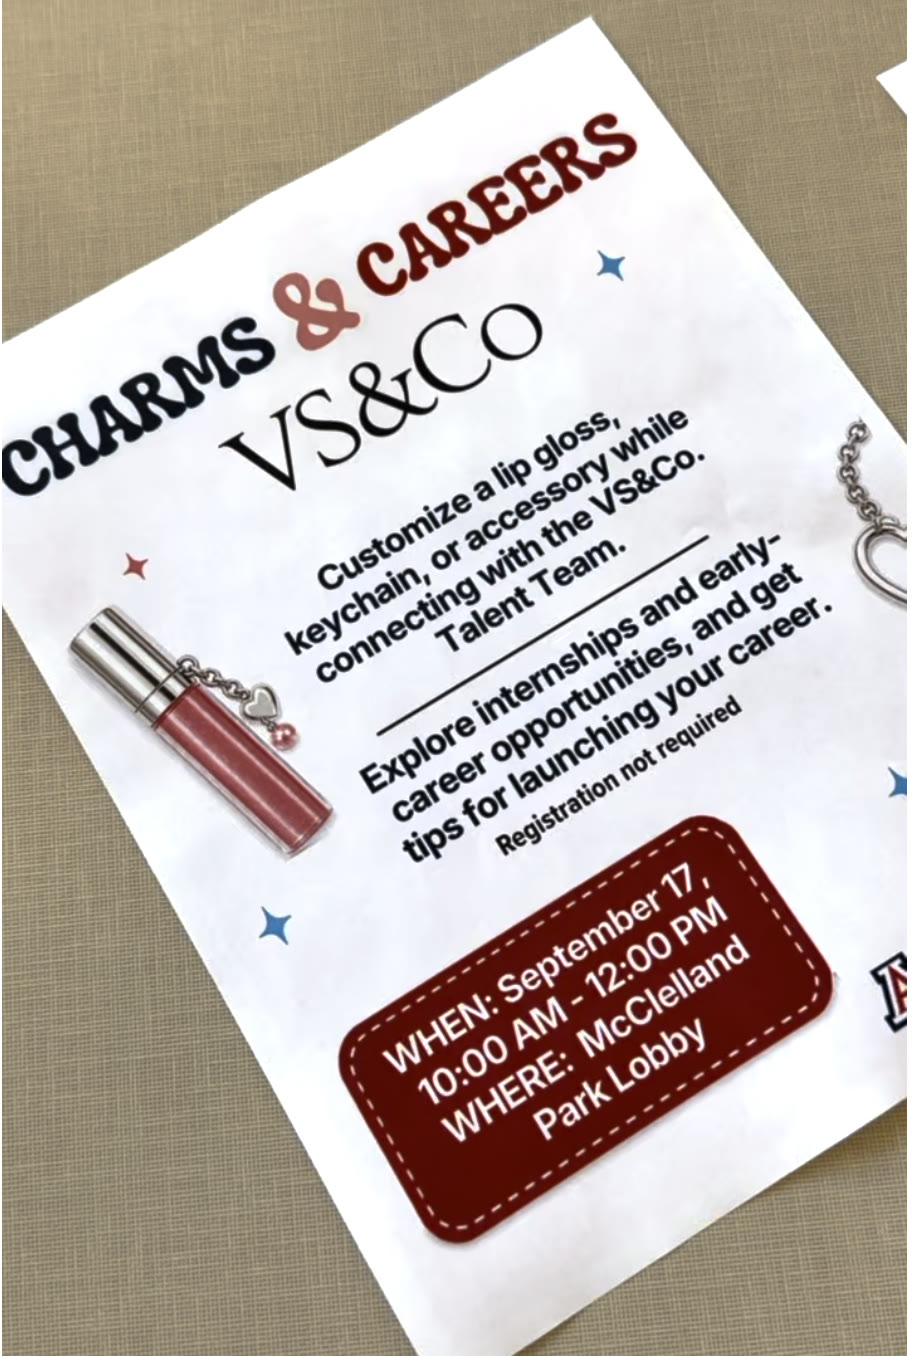
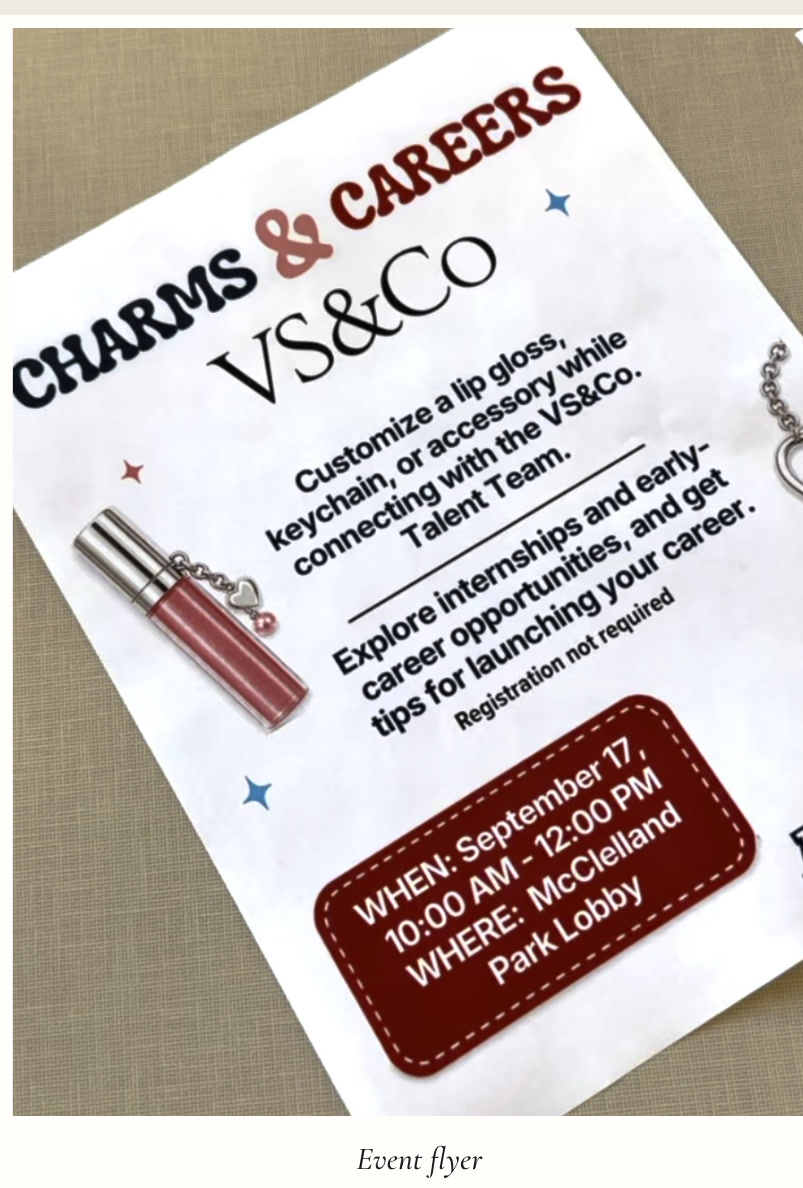
VS: crop flyer white corner and shrink top row

diff --git a/index.html b/index.html
@@ -8,7 +8,7 @@
   <link rel="preconnect" href="https://fonts.googleapis.com" />
   <link rel="preconnect" href="https://fonts.gstatic.com" crossorigin />
   <link href="https://fonts.googleapis.com/css2?family=Cormorant+Garamond:ital,wght@0,400;0,500;0,600;1,400;1,500&family=DM+Sans:opsz,wght@9..40,300;9..40,400;9..40,500&display=swap" rel="stylesheet" />
-  <link rel="stylesheet" href="styles.css?v=vs-drench" />
+  <link rel="stylesheet" href="styles.css?v=vs-flyer-crop" />
 </head>
 <body>
   <a class="skip-link" href="#home">Skip to content</a>

diff --git a/styles.css b/styles.css
@@ -995,6 +995,9 @@ a:hover {
   grid-template-columns: minmax(0, 1fr) minmax(0, 1fr);
   gap: clamp(0.75rem, 2vw, 1.15rem);
   align-items: stretch;
+  width: 78%;
+  max-width: 640px;
+  margin-inline: auto;
 }
 
 .vs-board-five .vs-row-mid {
@@ -1049,4 +1052,12 @@ a:hover {
     margin-inline: auto;
     width: 100%;
   }
+}
+
+.vs-board-five .vs-row-top .vs-reel video,
+.vs-board-five .vs-row-top .vs-frame img {
+  aspect-ratio: 3 / 4;
+  max-height: 340px;
+  width: 100%;
+  margin-inline: auto;
 }
